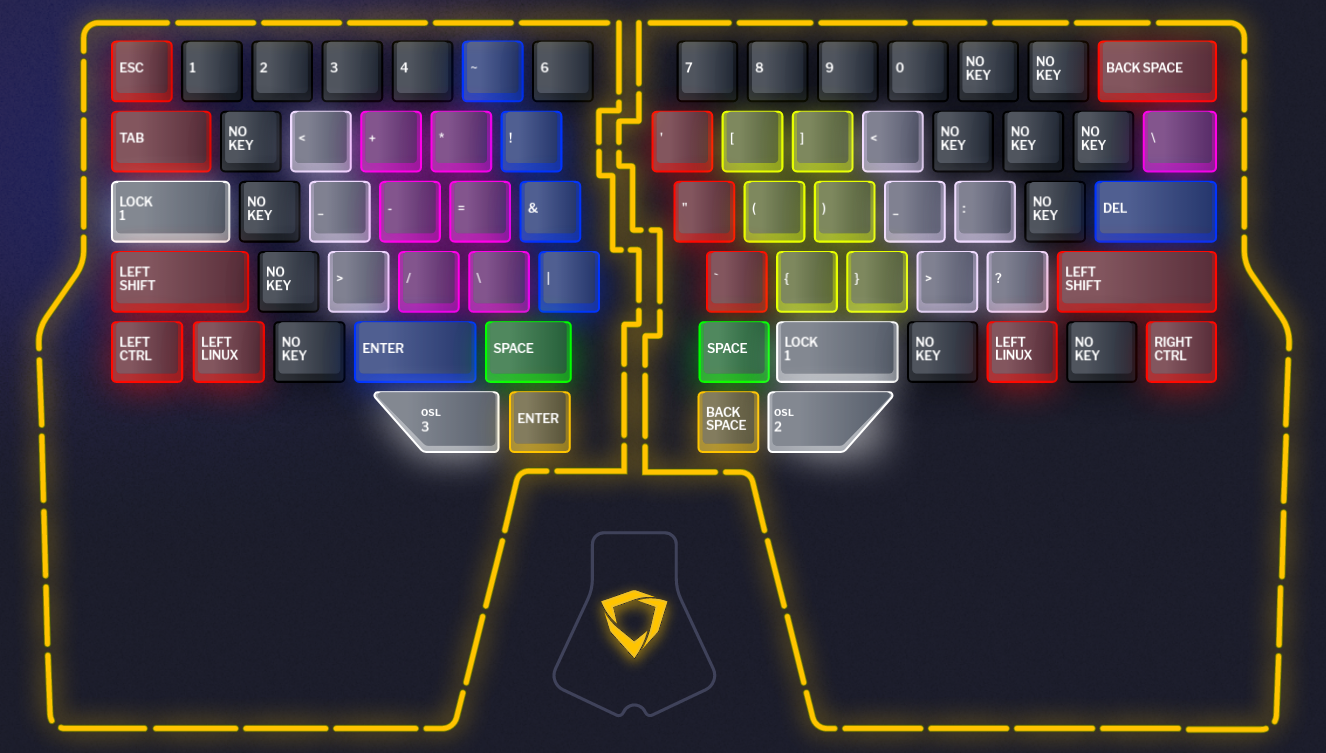
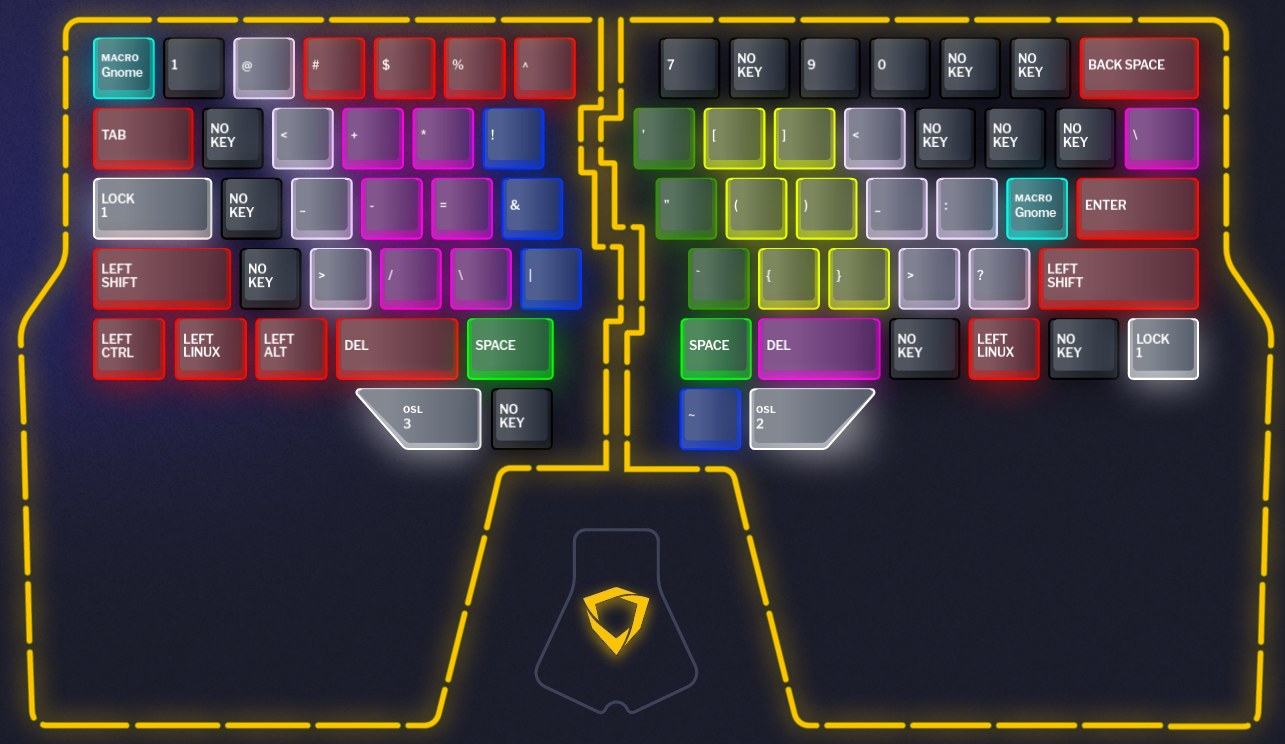
Update Raise docs and screenshots (rev4)

diff --git a/DygmaRaise/README.md b/DygmaRaise/README.md
@@ -4,7 +4,7 @@ Making some notes about the configuration, for my future self to understand what
 &nbsp;  
 In all layers, white keys are for layer swap. I use "one shot layer" keys for Function keys and OS functions, these work as shift to layer when held, and if I need to lock the layer I can double tap (eg to use cursor keys). For other layers I have dual function keys (details below).  
 LED off means the key is unassigned, so I know what I have available at a glance.  
-Currently I'm on revision 3 of the setup, changes happened naturally on my first month of use and as I grew more used to dual function keys. The most important lesson was to keep the key that I use to activate a layer opposite to the features I use the most without locking on it, in particular for things that aren't a quick tap.
+Currently I'm on revision 4 of the setup, changes happened naturally on my first month of use and as I grew more used to dual function keys. The most important lesson was to keep the key that I use to activate a layer opposite to the features I use the most without locking on it, in particular for things that aren't a quick tap.
 
 ## General settings
 
@@ -12,37 +12,37 @@ These are values for the "Preferences" section, that controls timeouts for dual 
 
 ### Typing
 
-  * Dual function overlap threshold: 80
-  * Dual function hold timeout: 150
-  * Superkey next tap timeout: 150
-  * Superkey hold timeout: 150
+  * Dual function overlap threshold: 40
+  * Dual function hold timeout: 105
+  * Superkey next tap timeout: 200
+  * Superkey hold timeout: 175
 
 ### Mouse
 
-  * Cursor speed: 25
-  * Cursor acceleration: 50
-  * Max cursor speed: 100
+  * Cursor speed: 20
+  * Cursor acceleration: 35
+  * Max cursor speed: 80
   * Wheel speed: 4
 
 ## Layer 1 - "Base"
 
 From my MD770 days I got used to having modifiers in my thumbs (Space/Control on the left spacebar, and ESC/Control on the right spacebar), which is very convenient for Emacs. I'm keeping that in the Raise, in T2 and T3.  
-T1 is F6, which is bound to my personal keymap in Emacs. T4 is F5, which holds a second keymap that for the time being is exclusively assigned to registers.  
+T1 is F6, which is bound to my personal keymap in Emacs. T4 is backspace.
 The thumbs keys in the bottom row are all layer changes, with some extra features:
   * T5 goes to layer 3, OS/window management, arrow keys, media.
-  * T6 has dual function: Enter on tap, activate layer 4 on hold (symbols for programming)
-  * T7 also has a dual function: backspace on tap, activate layer 5 on hold. This layer is almost identical to the base but most keys have the shift modifier. This frees up both shift keys on the sides and makes chording for shift use the thumb instead of pinky finger.
+  * T6 has dual function: Enter on tap, activate layer 4 on hold (symbols for programming and compose key in Gnome to type in Spanish)
+  * T7 activates layer 5. It is almost identical to the base but most keys have the shift modifier. This frees up both shift keys on the sides and makes chording for shift use the thumb instead of pinky finger.
   * T8 goes to layer 2, Function keys, browser/app shorcuts, and mouse keys
 &nbsp;  
 I still need proper Alt modifiers for other applications, but since I can trigger Control and Shift with thumbs and layers, I can repurpose those keys and a few others:   
 
-* Left control: Switch keyboard language. Uses a macro that does the shortcut for Linux (Ctrl+Alt+\`) and Windows (Alt+Shift) combined.
-* Right control: For the time being, macro to exit Citrix VDI when it is full screen.
-* Caps Lock: Lock layer 5, which is more or less like having a Caps key, with modifiers other than shift in a few particular keys.
+* Left control: (experimental) Compose ~ for ñ.
+* Right control: (experimental) Compose ' for á é í ó ú.
+* Caps Lock: F7, which is assigned to `ctl-x-map` in Emacs.
 * Left shift: Prefix argument (C-u) for Emacs commands.
 * Right shift: Negative argument (C--). Now using `cycle-spacing` to collapse empty lines is a breeze.
-* Function key: Print Screen
-* Enter: Delete
+* Function key: Alt + OS Key (for Citrix shortcuts)
+* Enter: F5, a secondary personal prefix key for Emacs commands (mostly related to registers).
 
 
 ![Layer 1](pictures/Layer-1-Base.png)
@@ -50,7 +50,7 @@ I still need proper Alt modifiers for other applications, but since I can trigge
 ## Layer 2 - "F-keys/Browser/Mouse"
 
 Since I activate this layer on the right side, it has arrows on left side, but with the Alt modifier applied. They can be used to move between chats in Signal and Webex, for example. In addition, around the arrows there's a couple Firefox-oriented bindings: Ctrl+Shift+Tab and Ctrl+Tab to move between tabs, Ctrl+Shift+T to reopen the last tab, etc. Also, the keys Z, X, C and V are mapped with a Control modifier for undo/copy/etc. This technically belongs, and it is mapped, in layer 3 too.  
-The right side has mouse keys, which I would use locking the layer (so having both activation and keys on the same side is not as uncomfortable). Mouse buttons to click are on the sides of "up", middle click below, the scrool wheel on the side. After adjusting the settings for mouse speed and acceleration, this setup has been convenient here and there.  
+The right side has mouse keys, which I would use locking the layer (so having both activation and keys on the same side is not as uncomfortable). Mouse buttons to click are on the sides of "up" plus thumb keys, middle click below the arrows, the scrool wheel on the side. After adjusting the settings for mouse speed and acceleration, this setup has been convenient here and there.  
 Finally, the number row is for F-keys, so this layer has the same modifiers as Layer 1 plus Shift keys on their usually positions, to allow for Ctrl+F1, Shift+F1, etc.  
 
 ![Layer 2](pictures/Layer-2-Fkeys-Browser-Mouse.png)
@@ -60,20 +60,21 @@ Finally, the number row is for F-keys, so this layer has the same modifiers as L
 In this layer, the number row has the Win/Super modifier applied. The only reason I still need a Windows key in the base layer is for things like Win+V for clipboard history.
 I rely _a lot_ on the Win+# shortcuts to move between applications. I also use Win+arrows in both Gnome and Windows to tile and maximize applications, and to move applications between monitors. These are on the left side as ESDF arrows, plus an extra left/right that adds shift. Again, not umcomfortable since I mostly tap these.  
 Gnome workspaces shortcuts are mapped on top of the arrow/move windows keys.  
-On the right side there are arrow keys mapped to IJKL, surrounded by Home/End/PageUp/PageDown. A lot of times, moving with arrows implies expanding text selections (when not in Emacs, at least) so the layer also has shift and control keys in their usual positions.
+On the right side there are arrow keys mapped to IJKL, surrounded by Home/End/PageUp/PageDown. A lot of times, moving with arrows implies expanding text selections (when not in Emacs, at least) so the layer also has shift and control keys in their usual positions. I am also experimenting with arrows to move left & right with the shift modifier applied, in `m` and `.`, to expand text selections.  
 Finally since I used the media keys on my MD770 a lot, I am mapping playback and volume in (and around) the T1~4 keys in the top row.  
-I also added Alt+F4 in T7, and Win/Super in T6, as quick shortcuts.
+I moved Alt+F4 from T7, where I tapped it accidentally, to right shift. Win/Super is still in T6. I still haven't found a new use for T7.
 
 ![Layer 3](pictures/Layer-3-OS-Windows-Arrows-Media.png)
 
 ## Layer 4 - "Symbols"
 
-Here I mapped symbols that are useful for programming and moved them to keys close to the home row. Braces, parenthesis (obviously), math symbols, all types of quotes, etc.
+Here I mapped symbols that are useful for programming and moved them to keys close to the home row. Braces, parenthesis (obviously), math symbols, all types of quotes, etc.   
+There are rev4 additions to this layer: `'` and `~` are mapped with the compose modifier (the solo `'` has custom location with all other quote types), some more programming symbols, and DEL in the location that has Backspace in layer 1 (T4 key).  
 
 ![Layer 4](pictures/Layer-4-Symbols.png)
 
 ## Layer 5 - "Base + Shift"
 
-This is mostly the same as layer 1. Majority of the keys have the shift modifier applied. Including Enter. But Backspace and Delete have Control applied instead (to remove full words).
+This is mostly the same as layer 1, but keys have the shift modifier applied. Including Enter and TAB.
 
 ![Layer 5](pictures/Layer-5-Base-w-Shift.png)
